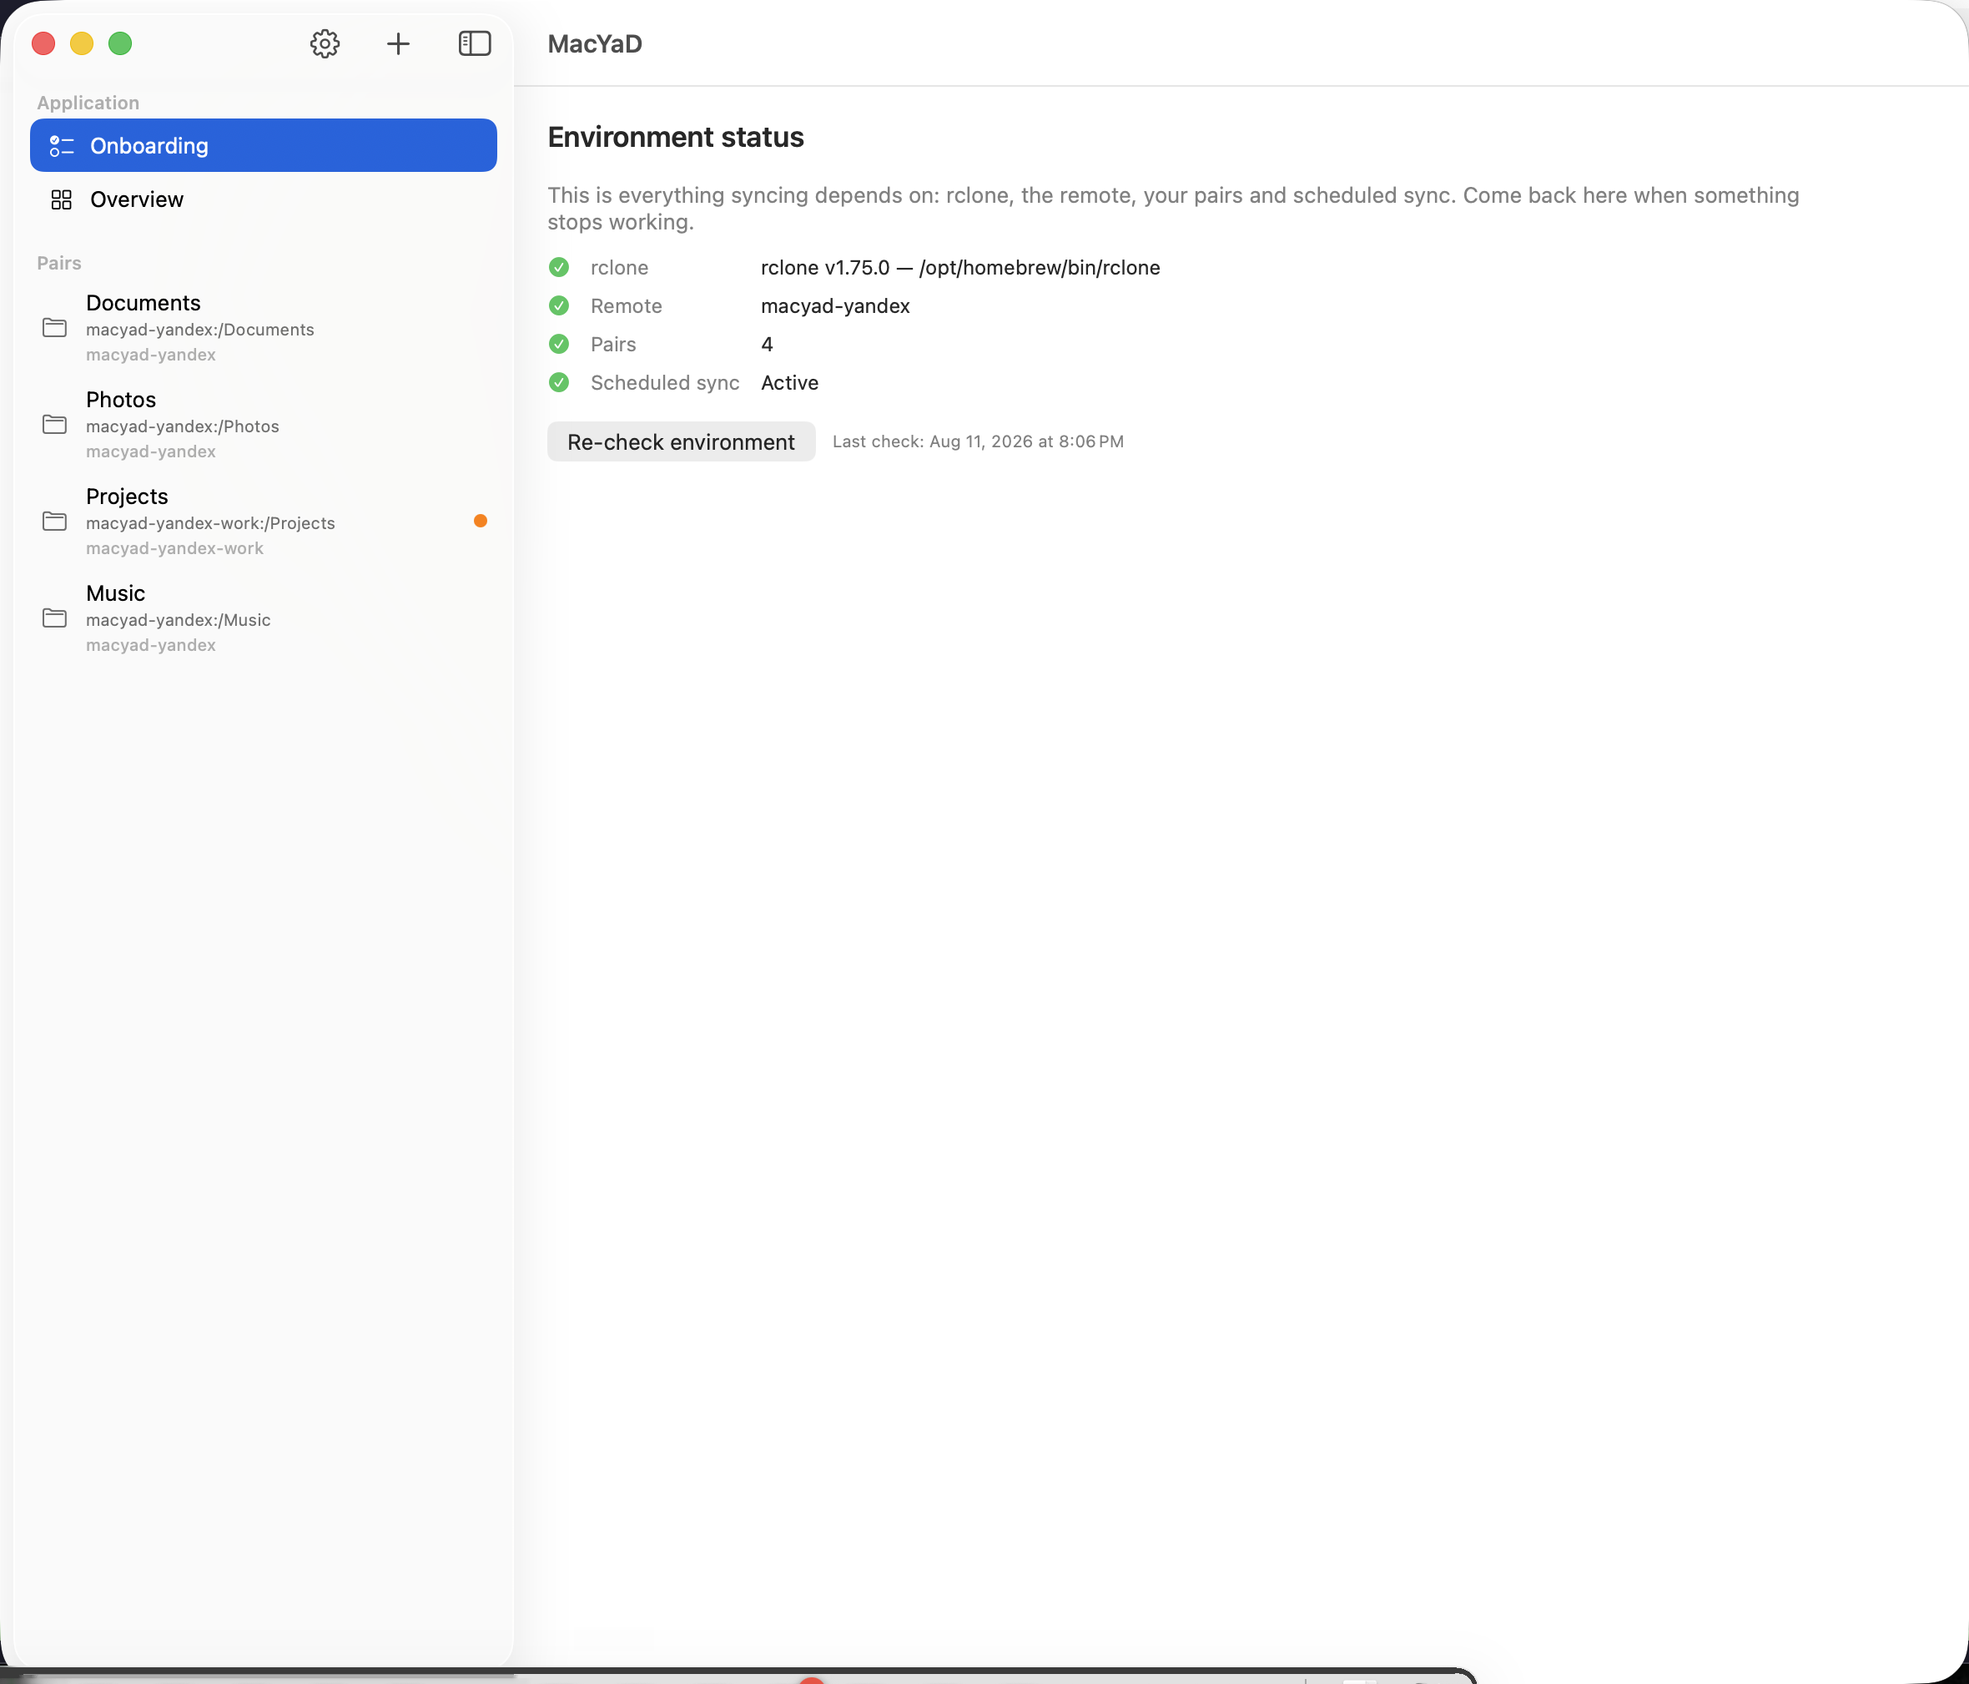
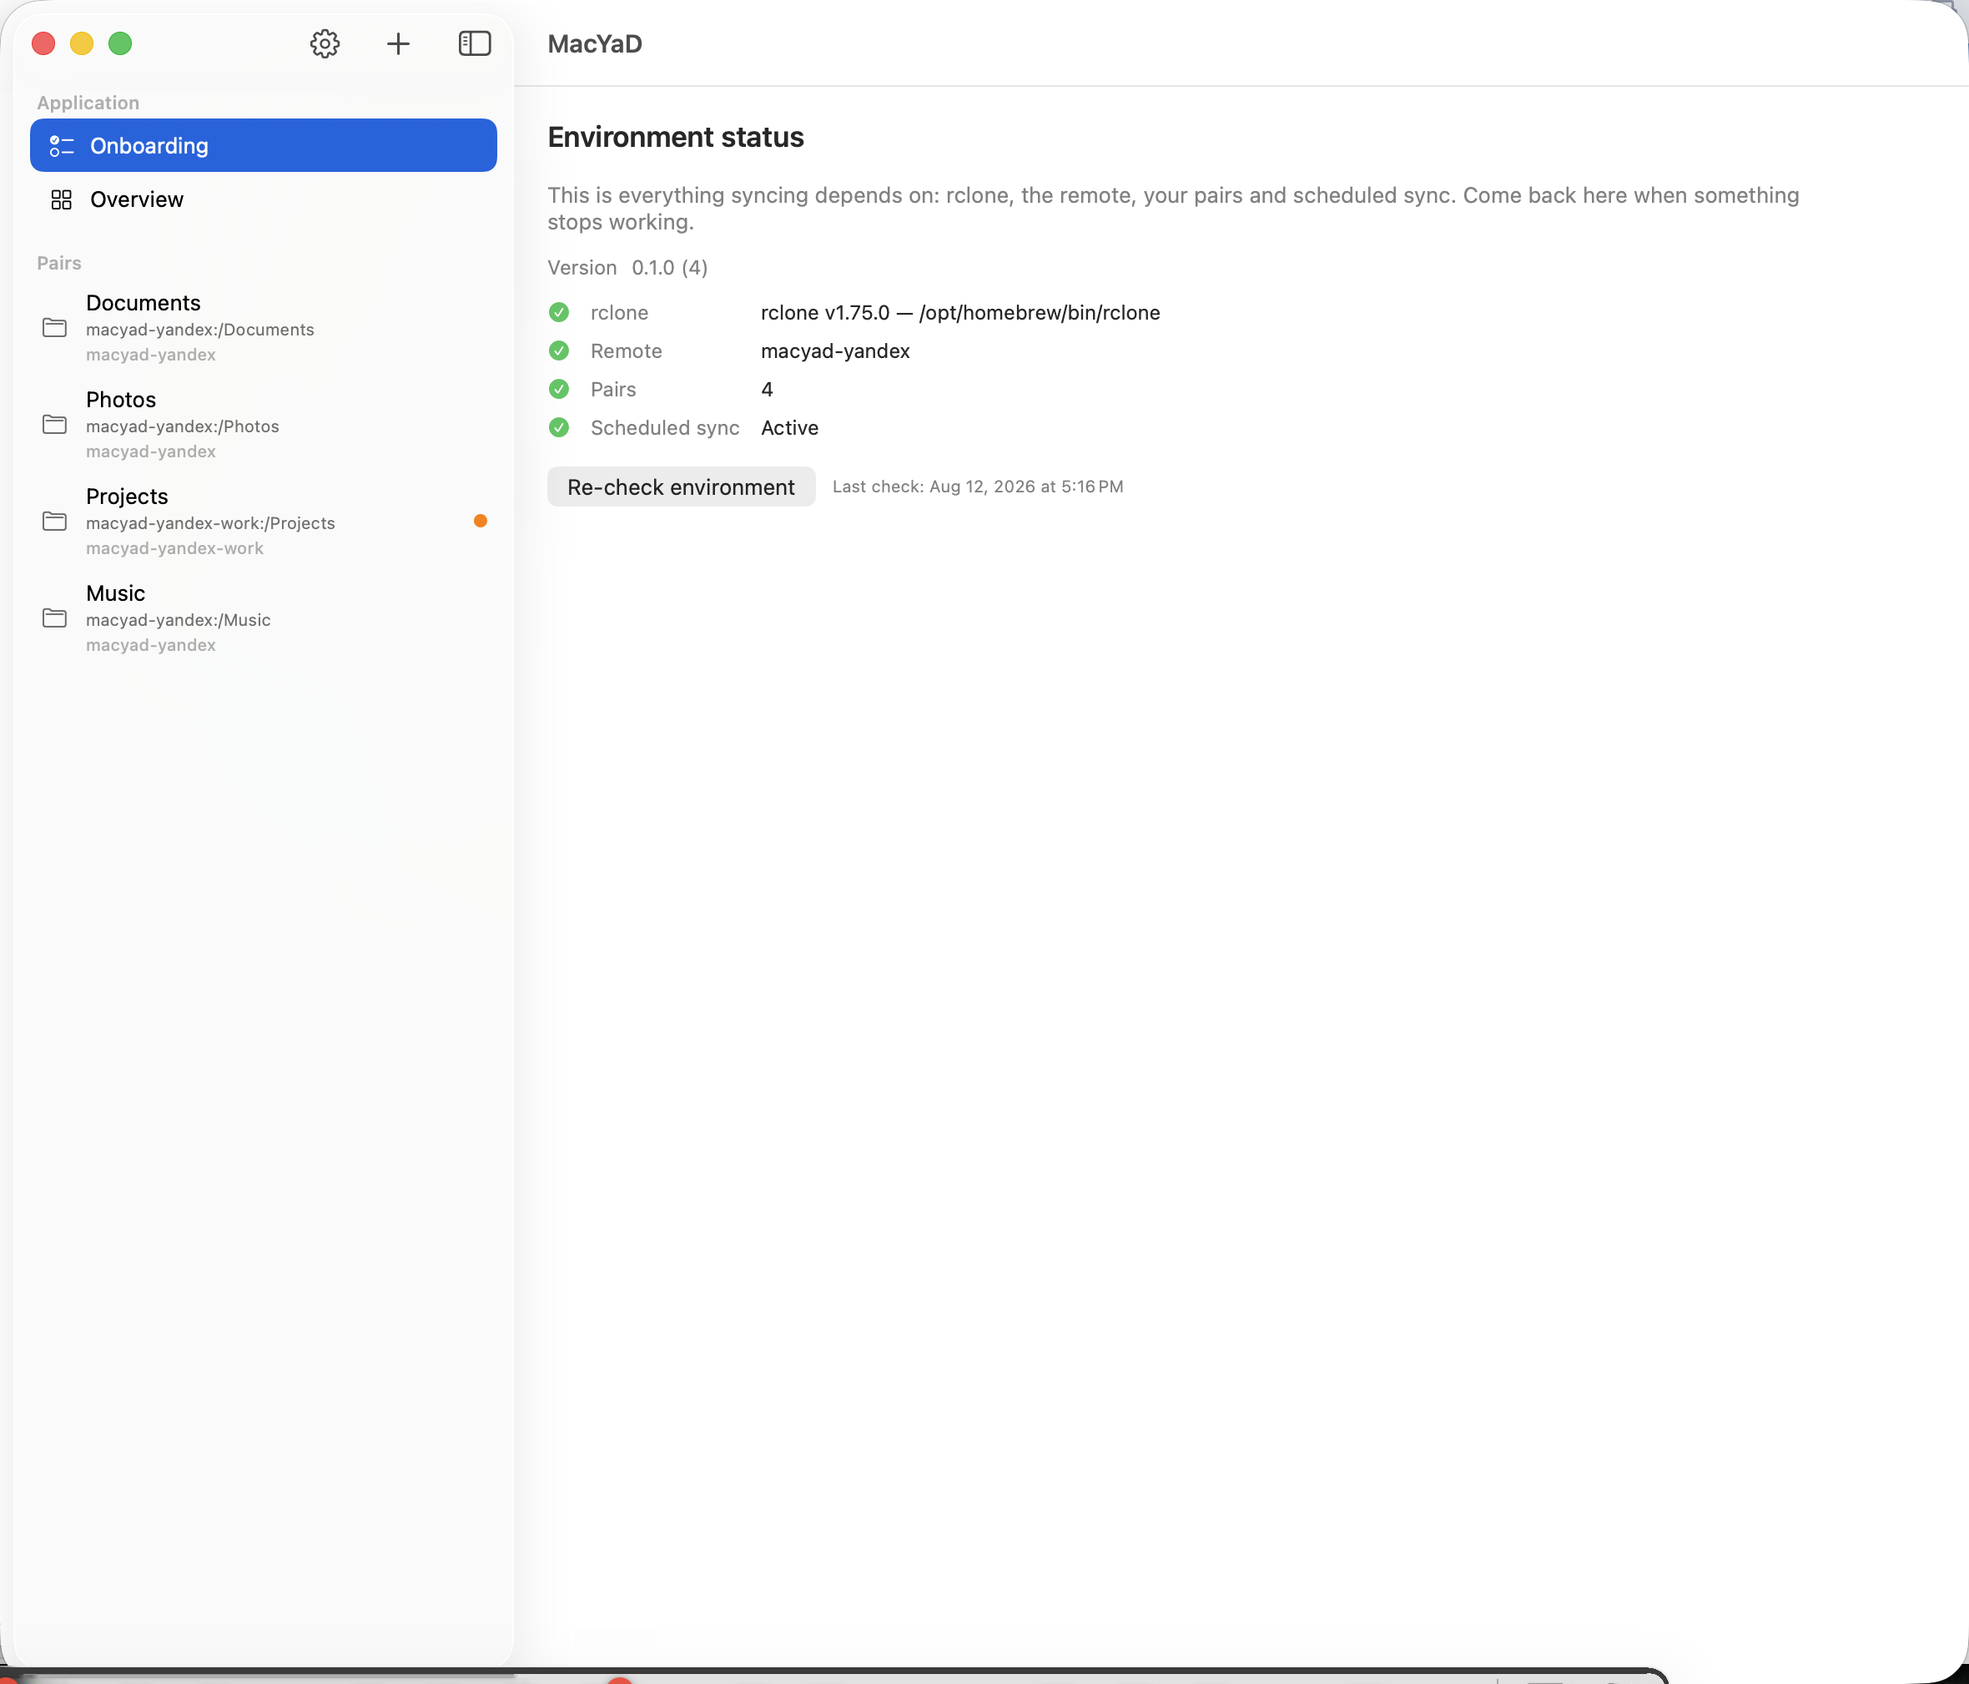
feat: flesh out About, show the version where it is needed, install to /Applications
Three things, all from the same session of actually using the app.

About in Settings was a version string and a button. It now carries the
copyright and licence, links to the repository, the releases page and the
bug report form, and a note that the syncing is rclone's work and that this
project is affiliated with neither rclone nor Yandex.

The version also appears on the Onboarding pane — the screen users are told
to open when sync stops working, right above the rclone version it will be
quoted next to.

`build_and_run.sh` now installs to /Applications when it is writable. It
used to install to ~/Applications while the DMG installs to /Applications,
so dragging a new build out of the DMG looked like it had done nothing: the
old copy in the other folder was still the one being looked at. Worse, both
were registered with LaunchServices under the same bundle id — which, as it
turns out, breaks the entire UI test target with "Timed out while enabling
automation mode". Verified by moving one copy aside: the suite goes from
failing at launch to green. Written down in MacyadUITests/AGENTS.md.

diff --git a/Macyad/Domain/Models/AppCopy.swift b/Macyad/Domain/Models/AppCopy.swift
@@ -312,6 +312,28 @@ public struct AppCopy: Sendable {
         isRussian ? "Скопировать для багрепорта" : "Copy for a bug report"
     }
 
+    public func aboutCopyright(year: Int) -> String {
+        isRussian ? "© \(year) Andrei Orlov · Лицензия MIT" : "© \(year) Andrei Orlov · MIT License"
+    }
+
+    public var aboutRepositoryLinkTitle: String {
+        isRussian ? "Репозиторий на GitHub" : "GitHub repository"
+    }
+
+    public var aboutReportIssueLinkTitle: String {
+        isRussian ? "Сообщить о проблеме" : "Report an issue"
+    }
+
+    public var aboutReleasesLinkTitle: String {
+        isRussian ? "Все версии" : "Releases"
+    }
+
+    public var aboutRcloneCredit: String {
+        isRussian
+            ? "Синхронизацию выполняет rclone — отдельный проект с открытым кодом. MacYaD не связан ни с ним, ни с Яндексом."
+            : "The syncing is done by rclone, a separate open source project. MacYaD is affiliated with neither it nor Yandex."
+    }
+
     public var copyDiagnosticsHint: String {
         isRussian
             ? "Копирует версию приложения, версию macOS и данные rclone — то, что спрашивает форма багрепорта. Пути к вашим папкам и токены не копируются."

diff --git a/Macyad/Views/Settings/SettingsView.swift b/Macyad/Views/Settings/SettingsView.swift
@@ -155,6 +155,17 @@ struct SettingsView: View {
                 Section {
                     LabeledContent(copy.appVersionLabel, value: AppMetadata.versionDisplay)
 
+                    Text(copy.aboutCopyright(year: AppMetadata.copyrightYear))
+                        .foregroundStyle(.secondary)
+
+                    HStack(spacing: 16) {
+                        Link(copy.aboutRepositoryLinkTitle, destination: AppMetadata.repositoryURL)
+                        Link(copy.aboutReleasesLinkTitle, destination: AppMetadata.releasesURL)
+                        Link(copy.aboutReportIssueLinkTitle, destination: AppMetadata.newIssueURL)
+                        Spacer()
+                    }
+                    .font(.callout)
+
                     HStack {
                         Button(copy.copyDiagnosticsButtonTitle) {
                             viewModel.copyDiagnostics(
@@ -167,6 +178,11 @@ struct SettingsView: View {
                         .accessibilityIdentifier("diagnostics.copy")
                         Spacer()
                     }
+
+                    Text(copy.aboutRcloneCredit)
+                        .font(.callout)
+                        .foregroundStyle(.secondary)
+                        .frame(maxWidth: .infinity, alignment: .leading)
                 } header: {
                     Text(copy.aboutSectionTitle)
                 } footer: {

diff --git a/Macyad/Views/Onboarding/OnboardingView.swift b/Macyad/Views/Onboarding/OnboardingView.swift
@@ -78,6 +78,14 @@ struct OnboardingView: View {
                         // at all, and the whole window renders blank.
                         .frame(maxWidth: .infinity, alignment: .leading)
 
+                    // The version belongs on the pane people are told to open
+                    // when something is wrong, next to the rclone version it
+                    // is going to be quoted alongside.
+                    LabeledContent(copy.appVersionLabel, value: AppMetadata.versionDisplay)
+                        .font(.callout)
+                        .foregroundStyle(.secondary)
+                        .frame(maxWidth: .infinity, alignment: .leading)
+
                     Grid(alignment: .leadingFirstTextBaseline, horizontalSpacing: 12, verticalSpacing: 8) {
                         ForEach(viewModel.statusRows(pairs: appModel.pairs, preferences: appModel.preferences, copy: copy), id: \.label) { row in
                             GridRow {

diff --git a/Macyad/App/AppMetadata.swift b/Macyad/App/AppMetadata.swift
@@ -19,4 +19,16 @@ enum AppMetadata {
     static var versionDisplay: String {
         "\(version) (\(build))"
     }
+
+    static let repositoryURL = URL(string: "https://github.com/orloffas/macyad")!
+    static let releasesURL = URL(string: "https://github.com/orloffas/macyad/releases")!
+    static let newIssueURL = URL(
+        string: "https://github.com/orloffas/macyad/issues/new?template=bug_report.yml"
+    )!
+
+    /// Current year, so the notice does not quietly go stale in a file nobody
+    /// remembers to edit every January.
+    static var copyrightYear: Int {
+        Calendar(identifier: .gregorian).component(.year, from: Date())
+    }
 }

diff --git a/script/AGENTS.md b/script/AGENTS.md
@@ -11,7 +11,7 @@
 
 | File | Description |
 |------|-------------|
-| `build_and_run.sh` | Главный entry-point: `xcodegen generate` → `xcodebuild` → stage → launch / package DMG. Modes: `run` (default), `debug` (lldb attach), `logs` (log stream), `telemetry`, `verify`, `package`. Флаги: `--clean`, `--clean-all`, `--no-launch`, `--package-dmg`, `--package-after-build`, `--foreground`, `--background`, `--no-prompt`. Интерактивный prompt по умолчанию при запуске из TTY. |
+| `build_and_run.sh` | Главный entry-point (устанавливает в `/Applications`, если она доступна на запись, иначе в `~/Applications`; DMG кладёт приложение туда же, и две копии одного bundle id ломают LaunchServices и весь таргет UI-тестов): `xcodegen generate` → `xcodebuild` → stage → launch / package DMG. Modes: `run` (default), `debug` (lldb attach), `logs` (log stream), `telemetry`, `verify`, `package`. Флаги: `--clean`, `--clean-all`, `--no-launch`, `--package-dmg`, `--package-after-build`, `--foreground`, `--background`, `--no-prompt`. Интерактивный prompt по умолчанию при запуске из TTY. |
 | `test.sh` | Юнит- и UI-тесты через `xcodebuild test`. В UI-режиме будит дисплей (`caffeinate -u`), отказывается запускаться на заблокированном экране и держит дисплей включённым весь прогон (`caffeinate -dimsu`): на спящем экране приложение стартует без окна, и все UI-тесты падают с `Failed to activate application (current state: Running Background)` — это выглядит как баг приложения, но им не является. Modes: `unit`/`core` → scheme `MacyadCore`; `ui`/`all` → scheme `Macyad`. Изолированный `derivedDataPath` чтобы не конфликтовать с build artifacts. Экспортирует `MACYAD_CODESIGN_IDENTITY`, если сертификат `MacYaD Local Development` есть в keychain: иначе Xcode подписывает ad-hoc, `CDHash` меняется на каждой пересборке и `TCC` заново спрашивает доступ к папкам прямо во время прогона. |
 | `sign_app.sh` | Подписывает бандл self-signed сертификатом inside-out (сначала вложенные фреймворки, потом сам бандл). Единственная реализация подписи: `build_and_run.sh` и `.github/workflows/release.yml` зовут именно её, иначе designated requirement релиза и локальной сборки разойдётся, и macOS переспросит доступ к папкам. Отсутствие сертификата — не ошибка: печатает warning и оставляет подпись Xcode. |
 | `package_dmg.sh` | Собирает DMG с оформленным окном (иконка приложения, alias `Applications`, стрелка между ними) через `appdmg`. `appdmg` пишет настройки окна программно, без AppleScript и Finder — поэтому работает на CI. Без `appdmg` в PATH делает обычный неоформленный образ и говорит об этом. Спецификация — шаблон `script/dmg/appdmg.json`, пути подставляются на лету, потому что `appdmg` резолвит их относительно самого конфига. |

diff --git a/MacyadUITests/AGENTS.md b/MacyadUITests/AGENTS.md
@@ -18,6 +18,7 @@ UI-тесты приложения `Macyad` через `XCUIApplication`. Пок
 ## For AI Agents
 
 ### Working In This Directory
+- **Две установленные копии приложения ломают весь таргет.** Если `MacYaD.app` лежит и в `/Applications`, и в `~/Applications`, прогон падает на старте с `The test runner failed to initialize for UI testing. (Underlying Error: Timed out while enabling automation mode.)` — сообщение никак не намекает на причину. Проверять: `mdfind "kMDItemCFBundleIdentifier == 'me.orloff.macyad'"`, оставлять ровно один путь. С 2026-08-12 `build_and_run.sh` ставит в `/Applications` — туда же, куда кладёт DMG, — так что дубликат обычно означает старую копию в `~/Applications`.
 - Существования элемента недостаточно: при провале раскладки окно рисуется пустым, а дерево доступности остаётся полным, и `waitForExistence` проходит. Ключевые экраны проверять через `isHittable` — неотрисованный элемент недоступен для нажатия. Именно так пропустили баг с пустым окном 2026-08-11.
 - `-UITEST_SEEDED_PAIRS` поднимает приложение с парами, журналом и настроенным remote во временных путях: без данных целые ветки UI (например, состояние «настроено» в онбординге) не рендерятся вообще.
 - `saveWindowScreenshot` в `PairFlowUITests` пишет снимок окна в контейнер раннера и печатает путь в лог — единственный способ увидеть, что панель действительно нарисована.
